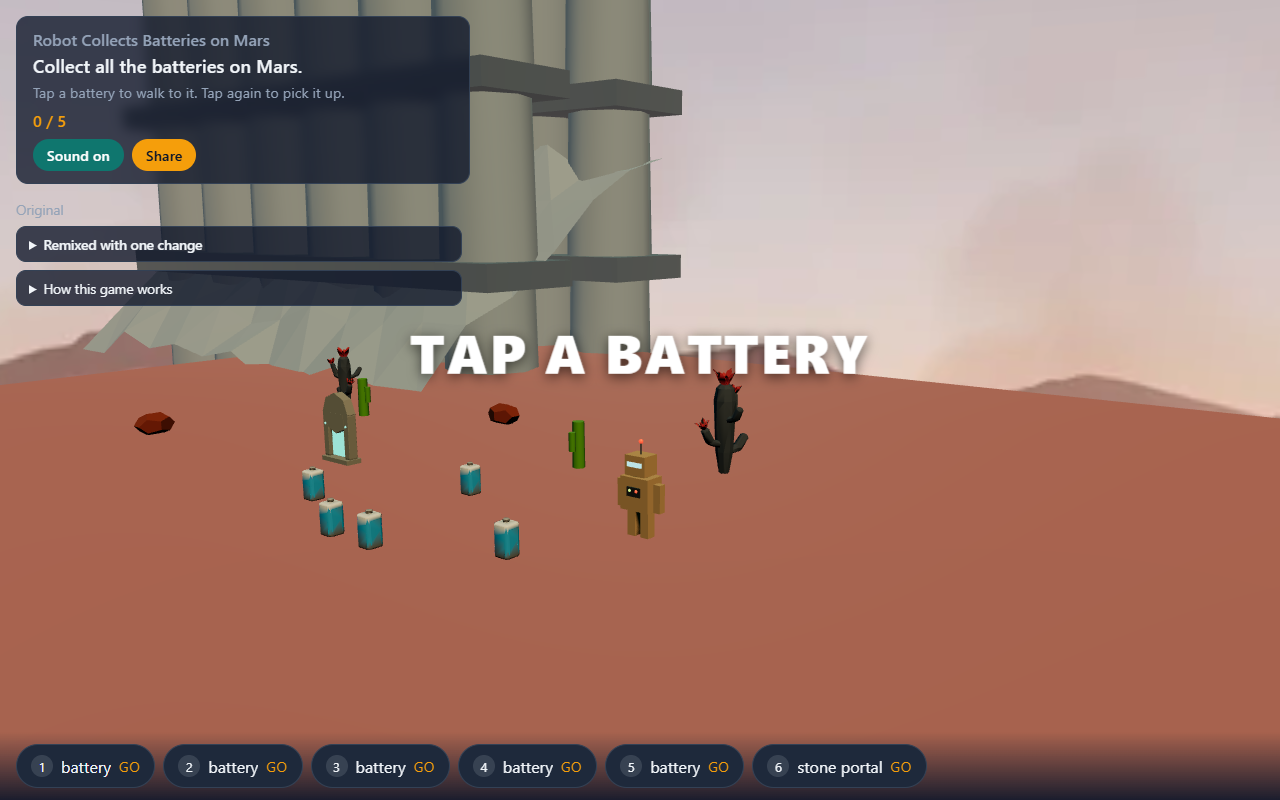
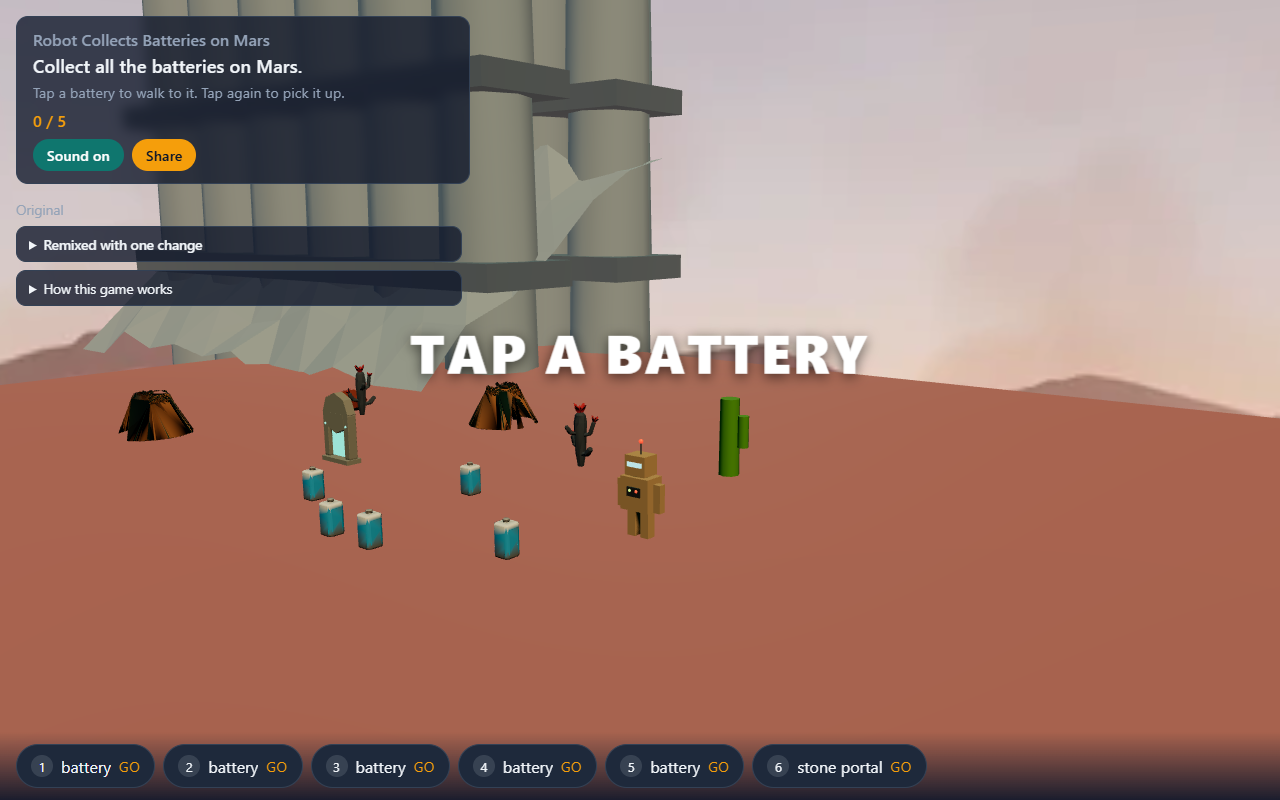
feat(play): dress every setting with generated scenery models
Each of the 18 looks gains two or three gen3d props (lighthouse and sandcastle on the beach, igloo and snowman in the snow, moon lander in space, gravestone in the graveyard). The volcano look now carries a catalog model too. Setting snapshots re-rendered.

Claude-Session: https://claude.ai/code/session_01AjLrsCjrBhV8qbY47Yd2bH

diff --git a/src/play/arcade/look/index.ts b/src/play/arcade/look/index.ts
@@ -107,6 +107,44 @@ export const SCENERY_MODELS = {
   'cc0-barrel': 1.3,
   'cc0-pumpkin': 0.9,
   'cc0-skull-candle': 1,
+  // Vlastní modely z gen3d (dávky 26.–28. 9.), jedna síť na model.
+  'gen3d-windmill': 7,
+  'gen3d-sunflower': 1.6,
+  'gen3d-street-mailbox': 1.3,
+  'gen3d-traffic-light': 3.5,
+  'gen3d-bus-stop': 2.6,
+  'gen3d-fountain': 2,
+  'gen3d-vending-machine': 2,
+  'gen3d-fruit-stand': 1.4,
+  'gen3d-cash-register': 1.2,
+  'gen3d-bookshelf': 2,
+  'gen3d-television': 1.2,
+  'gen3d-crane': 7,
+  'gen3d-container': 2.6,
+  'gen3d-treehouse': 6,
+  'gen3d-large-boulder': 1.5,
+  'gen3d-ruin': 2.5,
+  'gen3d-termite-hill': 2,
+  'gen3d-camel': 2.2,
+  'gen3d-sandcastle': 0.8,
+  'gen3d-surfboard': 2,
+  'gen3d-lighthouse': 8,
+  'gen3d-sailboat': 4,
+  'gen3d-jellyfish': 1,
+  'gen3d-seahorse': 0.8,
+  'gen3d-octopus': 1.2,
+  'gen3d-ice-igloo': 2.2,
+  'gen3d-snowman-with-hat': 1.7,
+  'gen3d-iceberg': 3,
+  'gen3d-volcano': 8,
+  'gen3d-crystal-cluster': 1.2,
+  'gen3d-mine-cart': 1.2,
+  'gen3d-moon-lander': 3,
+  'gen3d-satellite-radar-dish': 3,
+  'gen3d-space-colony-dome': 4,
+  'gen3d-drawbridge': 4,
+  'gen3d-stone-water-well': 1.8,
+  'gen3d-gravestone': 1.3,
 } as const satisfies Readonly<Record<string, number>>;
 export type SceneryModel = keyof typeof SCENERY_MODELS;
 export type SceneryKind = PropKind | SceneryModel;
@@ -136,24 +174,24 @@ export interface Look {
 }
 
 export const LOOKS: Readonly<Record<LookId, Look>> = {
-  meadow: { sky: '#bae6fd', fog: [30, 90], light: ['#e0f2fe', '#166534', 0.9], sun: 1.6, ground: '#15803d', track: '#334155', water: '#0284c7', props: ['tree', 'cc0-bench', 'cc0-bush', 'cc0-flower'], tint: ['#16a34a', '#78716c'] },
-  city: { sky: '#cbd5e1', fog: [25, 80], light: ['#f1f5f9', '#475569', 0.9], sun: 1.4, ground: '#64748b', track: '#1f2937', water: '#0369a1', props: ['townhouse', 'cc0-car-taxi', 'lamp', 'cc0-fire-hydrant', 'building'], tint: ['#94a3b8', '#fbbf24'] },
-  mall: { sky: '#fef3c7', fog: [20, 70], light: ['#fffbeb', '#d6d3d1', 1.1], sun: 1.1, ground: '#e7e5e4', track: '#d6d3d1', water: '#38bdf8', props: ['potted-plant', 'cc0-bench', 'shopping-cart', 'shelf', 'lamp'], tint: ['#f97316', '#0ea5e9'] },
-  supermarket: { sky: '#f1f5f9', fog: [20, 70], light: ['#ffffff', '#cbd5e1', 1.1], sun: 1.0, ground: '#e2e8f0', track: '#cbd5e1', water: '#38bdf8', props: ['cc0-cabinet-shelves', 'shopping-cart', 'cc0-can-fridge', 'shelf'], tint: ['#dc2626', '#16a34a'] },
-  living_room: { sky: '#fde68a', fog: [18, 60], light: ['#fff7ed', '#a16207', 1.0], sun: 1.1, ground: '#b45309', track: '#92400e', water: '#0ea5e9', props: ['cc0-couch', 'cc0-lamp-standing', 'cc0-armchair', 'potted-plant'], tint: ['#0f766e', '#f59e0b'] },
-  factory: { sky: '#a8a29e', fog: [20, 70], light: ['#e7e5e4', '#44403c', 0.8], sun: 1.3, ground: '#57534e', track: '#292524', water: '#155e75', props: ['steam-machine', 'cc0-barrel-stack', 'chimney', 'cc0-pallet'], tint: ['#78716c', '#ea580c'] },
-  forest: { sky: '#bbf7d0', fog: [20, 70], light: ['#dcfce7', '#14532d', 0.8], sun: 1.3, ground: '#166534', track: '#78350f', water: '#0e7490', props: ['cc0-tree-pine', 'tree', 'cc0-stump', 'cc0-log-stack'], tint: ['#14532d', '#57534e'] },
-  jungle: { sky: '#a7f3d0', fog: [15, 60], light: ['#ecfdf5', '#064e3b', 0.9], sun: 1.2, ground: '#065f46', track: '#713f12', water: '#0f766e', props: ['cc0-palm-tree', 'cc0-bamboo', 'cc0-bush-berries', 'tree'], tint: ['#15803d', '#65a30d'] },
-  desert: { sky: '#fde68a', fog: [40, 120], light: ['#fffbeb', '#b45309', 1.0], sun: 2.0, ground: '#d97706', track: '#b45309', water: '#0891b2', props: ['cc0-cactus-flowers', 'rock', 'cactus'], tint: ['#65a30d', '#92400e'] },
-  beach: { sky: '#7dd3fc', fog: [40, 120], light: ['#f0f9ff', '#fcd34d', 1.0], sun: 1.9, ground: '#fcd34d', track: '#fde68a', water: '#0ea5e9', props: ['cc0-palm-tree', 'rock', 'cc0-boat-row'], tint: ['#16a34a', '#a8a29e'] },
-  ocean: { sky: '#7dd3fc', fog: [30, 100], light: ['#f0f9ff', '#0369a1', 1.0], sun: 1.7, ground: '#0284c7', track: '#0c4a6e', water: '#0369a1', props: ['cc0-boat-row', 'buoy', 'rock'], tint: ['#ef4444', '#64748b'] },
-  underwater: { sky: '#0e7490', fog: [8, 45], light: ['#67e8f9', '#164e63', 1.0], sun: 0.8, ground: '#155e75', track: '#0f766e', water: '#083344', props: ['coral', 'cc0-clownfish', 'seaweed', 'cc0-tang', 'rock'], tint: ['#fb7185', '#22c55e'] },
-  snow: { sky: '#e0f2fe', fog: [25, 80], light: ['#ffffff', '#bae6fd', 1.1], sun: 1.4, ground: '#f8fafc', track: '#cbd5e1', water: '#7dd3fc', props: ['pine', 'penguin', 'iceblock', 'cc0-sled'], tint: ['#e2e8f0', '#7dd3fc'], block: ['#cbd5e1', '#f8fafc'] },
-  cave: { sky: '#1c1917', fog: [8, 40], light: ['#a8a29e', '#0c0a09', 0.8], sun: 0.7, ground: '#44403c', track: '#292524', water: '#155e75', props: ['rock', 'crystal', 'cc0-torch-lit', 'cc0-rock-moss'], tint: ['#2dd4bf', '#57534e'], block: ['#292524', '#57534e'] },
-  volcano: { sky: '#7c2d12', fog: [15, 60], light: ['#fdba74', '#450a0a', 0.9], sun: 1.2, ground: '#292524', track: '#44403c', water: '#ea580c', props: ['volcano', 'rock', 'crystal'], tint: ['#1c1917', '#f97316'] },
-  space: { sky: '#020617', fog: [40, 140], light: ['#e2e8f0', '#7f1d1d', 0.7], sun: 1.6, ground: '#b45309', track: '#7c2d12', water: '#0f172a', props: ['cc0-asteroid', 'crystal', 'rocket', 'rock'], tint: ['#22d3ee', '#78350f'] },
-  castle: { sky: '#bfdbfe', fog: [30, 90], light: ['#eff6ff', '#3f6212', 0.9], sun: 1.5, ground: '#4d7c0f', track: '#78716c', water: '#1d4ed8', props: ['tower', 'stone-wall', 'cc0-torch-lit', 'cc0-barrel'], tint: ['#a8a29e', '#dc2626'], block: ['#57534e', '#a8a29e'] },
-  graveyard: { sky: '#0f172a', fog: [10, 50], light: ['#94a3b8', '#1e293b', 0.7], sun: 0.6, ground: '#1e293b', track: '#334155', water: '#0c4a6e', props: ['grave', 'pine', 'cc0-pumpkin', 'cc0-skull-candle'], tint: ['#64748b', '#14532d'] },
+  meadow: { sky: '#bae6fd', fog: [30, 90], light: ['#e0f2fe', '#166534', 0.9], sun: 1.6, ground: '#15803d', track: '#334155', water: '#0284c7', props: ['tree', 'cc0-bench', 'cc0-bush', 'cc0-flower', 'gen3d-windmill', 'gen3d-sunflower'], tint: ['#16a34a', '#78716c'] },
+  city: { sky: '#cbd5e1', fog: [25, 80], light: ['#f1f5f9', '#475569', 0.9], sun: 1.4, ground: '#64748b', track: '#1f2937', water: '#0369a1', props: ['townhouse', 'cc0-car-taxi', 'lamp', 'cc0-fire-hydrant', 'building', 'gen3d-traffic-light', 'gen3d-bus-stop', 'gen3d-street-mailbox'], tint: ['#94a3b8', '#fbbf24'] },
+  mall: { sky: '#fef3c7', fog: [20, 70], light: ['#fffbeb', '#d6d3d1', 1.1], sun: 1.1, ground: '#e7e5e4', track: '#d6d3d1', water: '#38bdf8', props: ['potted-plant', 'cc0-bench', 'shopping-cart', 'shelf', 'lamp', 'gen3d-fountain', 'gen3d-vending-machine'], tint: ['#f97316', '#0ea5e9'] },
+  supermarket: { sky: '#f1f5f9', fog: [20, 70], light: ['#ffffff', '#cbd5e1', 1.1], sun: 1.0, ground: '#e2e8f0', track: '#cbd5e1', water: '#38bdf8', props: ['cc0-cabinet-shelves', 'shopping-cart', 'cc0-can-fridge', 'shelf', 'gen3d-fruit-stand', 'gen3d-cash-register'], tint: ['#dc2626', '#16a34a'] },
+  living_room: { sky: '#fde68a', fog: [18, 60], light: ['#fff7ed', '#a16207', 1.0], sun: 1.1, ground: '#b45309', track: '#92400e', water: '#0ea5e9', props: ['cc0-couch', 'cc0-lamp-standing', 'cc0-armchair', 'potted-plant', 'gen3d-bookshelf', 'gen3d-television'], tint: ['#0f766e', '#f59e0b'] },
+  factory: { sky: '#a8a29e', fog: [20, 70], light: ['#e7e5e4', '#44403c', 0.8], sun: 1.3, ground: '#57534e', track: '#292524', water: '#155e75', props: ['steam-machine', 'cc0-barrel-stack', 'chimney', 'cc0-pallet', 'gen3d-crane', 'gen3d-container'], tint: ['#78716c', '#ea580c'] },
+  forest: { sky: '#bbf7d0', fog: [20, 70], light: ['#dcfce7', '#14532d', 0.8], sun: 1.3, ground: '#166534', track: '#78350f', water: '#0e7490', props: ['cc0-tree-pine', 'tree', 'cc0-stump', 'cc0-log-stack', 'gen3d-treehouse', 'gen3d-large-boulder'], tint: ['#14532d', '#57534e'] },
+  jungle: { sky: '#a7f3d0', fog: [15, 60], light: ['#ecfdf5', '#064e3b', 0.9], sun: 1.2, ground: '#065f46', track: '#713f12', water: '#0f766e', props: ['cc0-palm-tree', 'cc0-bamboo', 'cc0-bush-berries', 'tree', 'gen3d-ruin'], tint: ['#15803d', '#65a30d'] },
+  desert: { sky: '#fde68a', fog: [40, 120], light: ['#fffbeb', '#b45309', 1.0], sun: 2.0, ground: '#d97706', track: '#b45309', water: '#0891b2', props: ['cc0-cactus-flowers', 'rock', 'cactus', 'gen3d-termite-hill', 'gen3d-camel'], tint: ['#65a30d', '#92400e'] },
+  beach: { sky: '#7dd3fc', fog: [40, 120], light: ['#f0f9ff', '#fcd34d', 1.0], sun: 1.9, ground: '#fcd34d', track: '#fde68a', water: '#0ea5e9', props: ['cc0-palm-tree', 'rock', 'cc0-boat-row', 'gen3d-sandcastle', 'gen3d-surfboard', 'gen3d-lighthouse'], tint: ['#16a34a', '#a8a29e'] },
+  ocean: { sky: '#7dd3fc', fog: [30, 100], light: ['#f0f9ff', '#0369a1', 1.0], sun: 1.7, ground: '#0284c7', track: '#0c4a6e', water: '#0369a1', props: ['cc0-boat-row', 'buoy', 'rock', 'gen3d-sailboat', 'gen3d-lighthouse'], tint: ['#ef4444', '#64748b'] },
+  underwater: { sky: '#0e7490', fog: [8, 45], light: ['#67e8f9', '#164e63', 1.0], sun: 0.8, ground: '#155e75', track: '#0f766e', water: '#083344', props: ['coral', 'cc0-clownfish', 'seaweed', 'cc0-tang', 'rock', 'gen3d-jellyfish', 'gen3d-seahorse', 'gen3d-octopus'], tint: ['#fb7185', '#22c55e'] },
+  snow: { sky: '#e0f2fe', fog: [25, 80], light: ['#ffffff', '#bae6fd', 1.1], sun: 1.4, ground: '#f8fafc', track: '#cbd5e1', water: '#7dd3fc', props: ['pine', 'penguin', 'iceblock', 'cc0-sled', 'gen3d-ice-igloo', 'gen3d-snowman-with-hat', 'gen3d-iceberg'], tint: ['#e2e8f0', '#7dd3fc'], block: ['#cbd5e1', '#f8fafc'] },
+  cave: { sky: '#1c1917', fog: [8, 40], light: ['#a8a29e', '#0c0a09', 0.8], sun: 0.7, ground: '#44403c', track: '#292524', water: '#155e75', props: ['rock', 'crystal', 'cc0-torch-lit', 'cc0-rock-moss', 'gen3d-crystal-cluster', 'gen3d-mine-cart'], tint: ['#2dd4bf', '#57534e'], block: ['#292524', '#57534e'] },
+  volcano: { sky: '#7c2d12', fog: [15, 60], light: ['#fdba74', '#450a0a', 0.9], sun: 1.2, ground: '#292524', track: '#44403c', water: '#ea580c', props: ['volcano', 'rock', 'crystal', 'gen3d-volcano', 'gen3d-crystal-cluster'], tint: ['#1c1917', '#f97316'] },
+  space: { sky: '#020617', fog: [40, 140], light: ['#e2e8f0', '#7f1d1d', 0.7], sun: 1.6, ground: '#b45309', track: '#7c2d12', water: '#0f172a', props: ['cc0-asteroid', 'crystal', 'rocket', 'rock', 'gen3d-moon-lander', 'gen3d-satellite-radar-dish', 'gen3d-space-colony-dome'], tint: ['#22d3ee', '#78350f'] },
+  castle: { sky: '#bfdbfe', fog: [30, 90], light: ['#eff6ff', '#3f6212', 0.9], sun: 1.5, ground: '#4d7c0f', track: '#78716c', water: '#1d4ed8', props: ['tower', 'stone-wall', 'cc0-torch-lit', 'cc0-barrel', 'gen3d-drawbridge', 'gen3d-stone-water-well'], tint: ['#a8a29e', '#dc2626'], block: ['#57534e', '#a8a29e'] },
+  graveyard: { sky: '#0f172a', fog: [10, 50], light: ['#94a3b8', '#1e293b', 0.7], sun: 0.6, ground: '#1e293b', track: '#334155', water: '#0c4a6e', props: ['grave', 'pine', 'cc0-pumpkin', 'cc0-skull-candle', 'gen3d-gravestone'], tint: ['#64748b', '#14532d'] },
 };
 
 /**

diff --git a/src/play/__tests__/look.test.ts b/src/play/__tests__/look.test.ts
@@ -68,8 +68,8 @@ describe('kulisy z katalogu', () => {
     const ids = new Set(catalog.assets.map((asset) => asset.assetId));
     expect(Object.keys(SCENERY_MODELS).filter((id) => !ids.has(id))).toEqual([]);
     const primitiveOnly = LOOK_IDS.filter((id) => !LOOKS[id].props.some(isSceneryModel));
-    // Sopka stojí na vlastním primitivu `volcano`: katalog kužel sopky nemá.
-    expect(primitiveOnly).toEqual(['volcano']);
+    // Od 28. 9. má i sopka model z gen3d, primitiv `volcano` zůstal vedle něj.
+    expect(primitiveOnly).toEqual([]);
   });
 });
 
